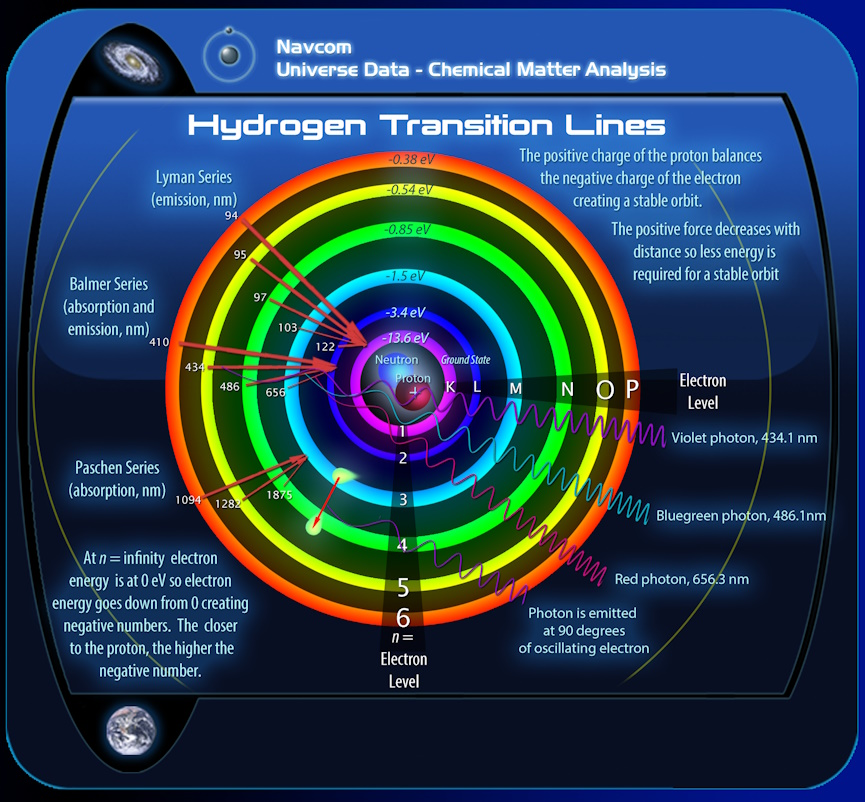
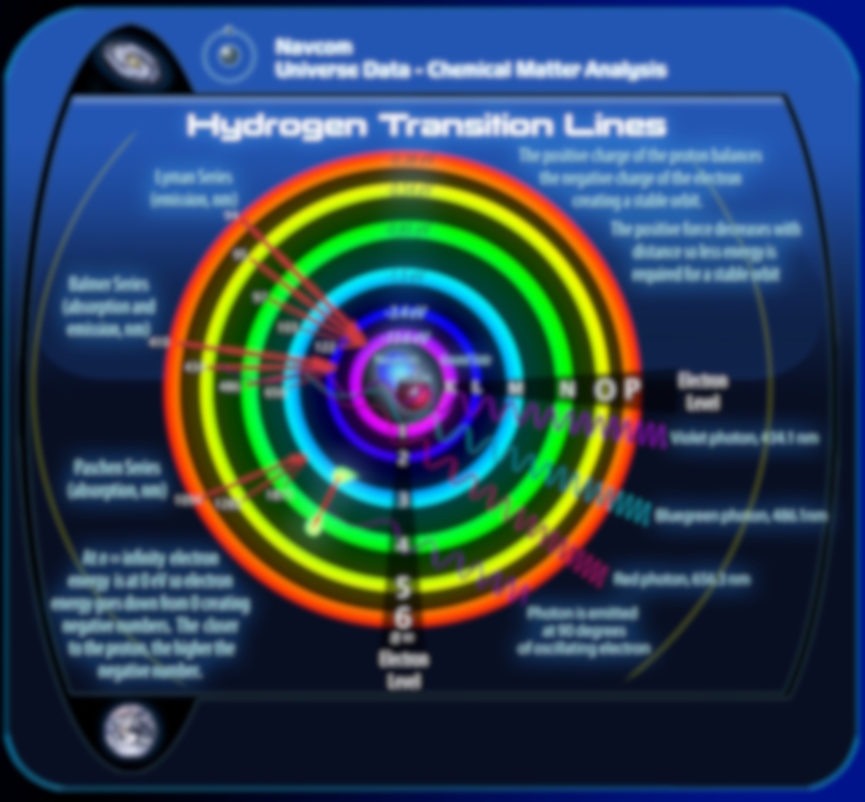
u

Changed region(s): [[0.0, 0.0, 0.9988, 0.9975], [0.0936, 0.2182, 0.1249, 0.2494]]

diff --git a/assets/css/style.css b/assets/css/style.css
@@ -27,7 +27,7 @@ body::before {
   top: 0;
   height: 100vh;
   z-index: -1;
-  filter: brightness(30%) blur(5px);
+  filter: brightness(30%);
 }
 
 @media (min-width: 1024px) {
